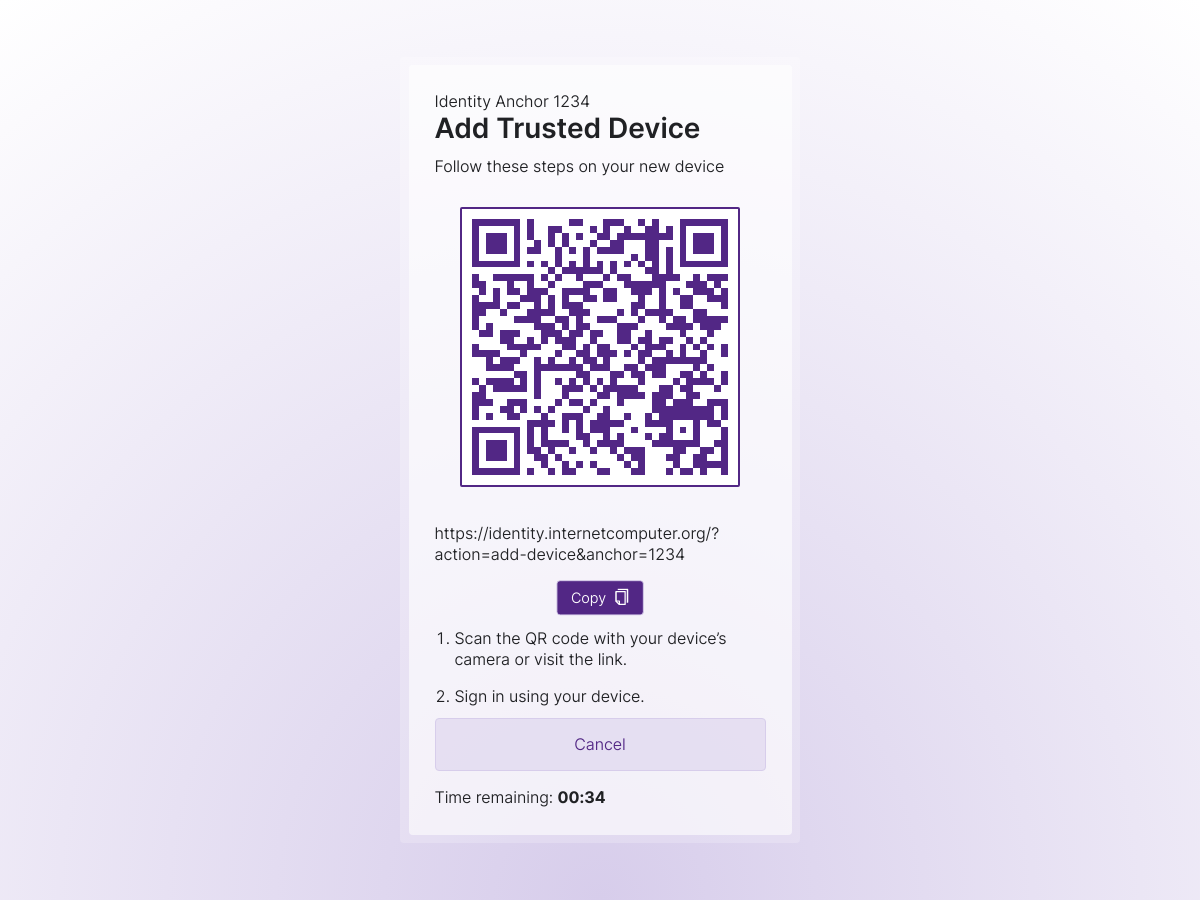
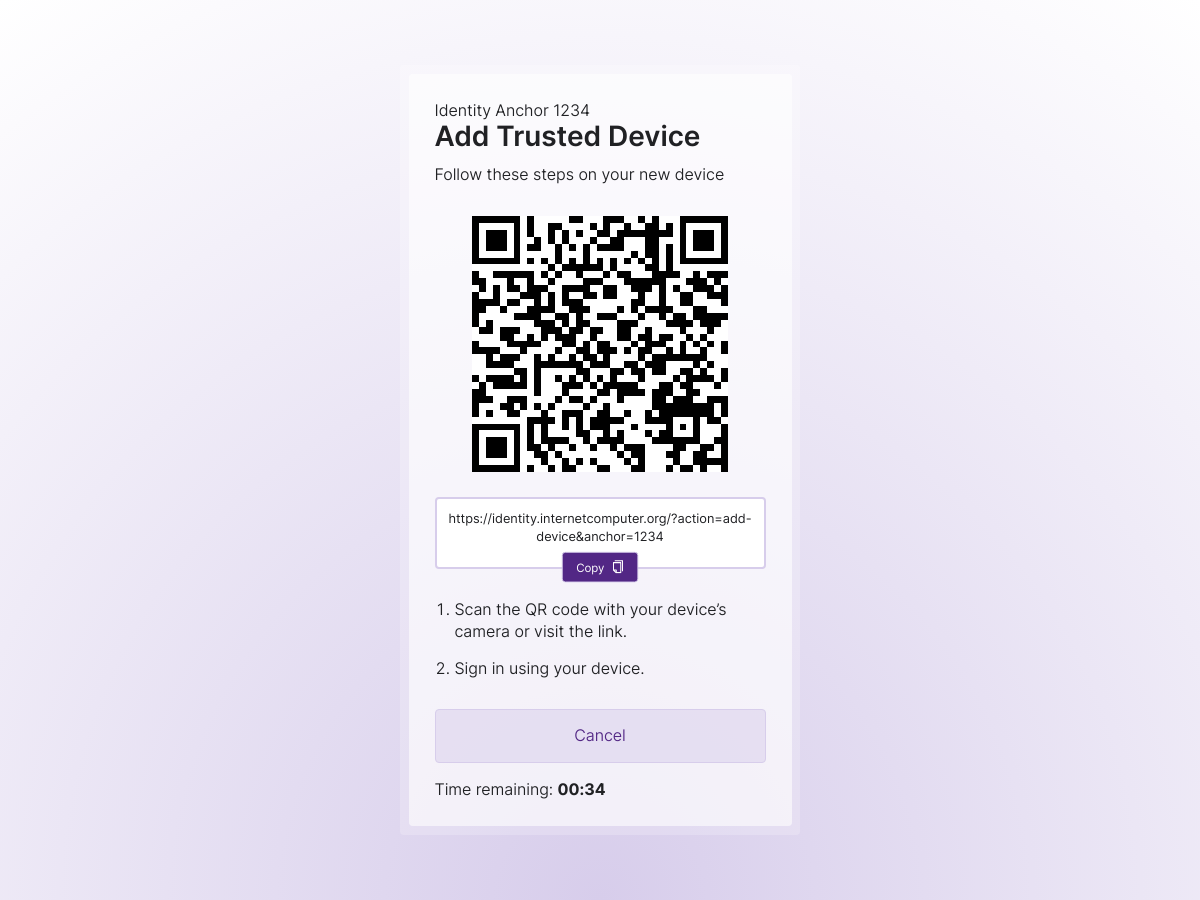
Fix up css

Changed region(s): [[0.3392, 0.0933, 0.6167, 0.7778], [0.37, 0.8711, 0.5242, 0.9022], [0.4625, 0.8089, 0.5242, 0.84]]

diff --git a/src/frontend/src/flows/addDevice/manage/pollForTentativeDevice.ts b/src/frontend/src/flows/addDevice/manage/pollForTentativeDevice.ts
@@ -44,9 +44,9 @@ const pollForTentativeDeviceTemplate = ({
   };
 
   const pageContentSlot = html`
-    <p class="t-paragraph">Identity Anchor ${userNumber}</p>
     <hgroup>
-      <h1 class="t-title t-title--main">Add Trusted Device</h1>
+      <h2 class="t-paragraph">Identity Anchor ${userNumber}</h2>
+      <h1 class="t-title t-title--main l-stack--none">Add Trusted Device</h1>
       <p class="t-lead">Follow these steps on your new device</p>
     </hgroup>
     <div
@@ -57,25 +57,20 @@ const pollForTentativeDeviceTemplate = ({
           : undefined
       )}
     ></div>
-    <p data-role="add-device-link" class="t-paragraph l-stack t-wrap">
-      ${link}
-    </p>
-    <!-- this is an absolute hack: position relative is needed for c-button__icon to be anchored, and
-        padding-bottom is needed otherwise the button overlaps the text -->
-    <div class="t-centered" style="position: relative; padding-bottom: 2em;">
-      <i
+    <div class="t-wrap c-input c-input--with-button c-input--centered t-weak">
+      <span data-role="add-device-link">${link}</span>
+      <button
         ${ref(linkCopyElement)}
         @click=${() => copyLink()}
         aria-label="Copy to clipboard"
         title="Copy to clipboard"
-        tabindex="0"
         id="seedCopy"
         data-action="copy-link"
         class="c-button__icon"
       >
         <span>Copy</span>
         ${copyIcon} ${checkmarkIcon}
-      </i>
+      </button>
     </div>
 
     <ol class="c-list c-list--numbered l-stack">
@@ -86,7 +81,7 @@ const pollForTentativeDeviceTemplate = ({
     <button
       @click=${() => cancel()}
       id="cancelAddRemoteDevice"
-      class="c-button c-button--secondary"
+      class="c-button c-button--secondary l-stack"
     >
       Cancel
     </button>
@@ -177,10 +172,10 @@ const displayQR = async ({
     return;
   }
 
-  // Retrieve a fitting color from design tokens (defaults to black if for some reason none is found)
+  // Retrieve a fitting color CSS (defaults to black if for some reason none is set)
   const fill: string = getComputedStyle(
     document.documentElement
-  ).getPropertyValue("--vc-brand-purple");
+  ).getPropertyValue("currentColor");
 
   // Create the QR code
   qrCreator.render(

diff --git a/src/frontend/src/styles/main.css b/src/frontend/src/styles/main.css
@@ -1171,6 +1171,11 @@ a:hover,
   background-color: var(--rc-line);
 }
 
+.c-input--with-button {
+  padding: calc(1.5 * var(--rs-input-bezel)) calc(1.5 * var(--rs-input-bezel))
+    calc(3 * var(--rs-input-bezel));
+}
+
 .c-input--icon {
   position: relative;
   padding-bottom: calc(4 * var(--rs-input-bezel));
@@ -2076,10 +2081,8 @@ input[type="checkbox"] {
 
 /* Wrap QR codes in a white square (for legibility) and prettify a bit */
 .c-qrcode canvas {
+  /* Make sure it has a white background to be easy to scan, not matter the background */
   background: white;
-  padding: calc(2 * var(--vs-gutter));
-  border: 2px solid var(--vc-brand-purple);
-  border-radius: 2px;
   /* Ensure the canvas doesn't overflow on small screens */
   max-width: 100%;
   image-rendering: pixelated;
@@ -2101,4 +2104,8 @@ input[type="checkbox"] {
 
 .l-stack--tight {
   margin-top: var(--vs-stack);
+}
+
+.l-stack--none {
+  margin-top: 0;
 }
